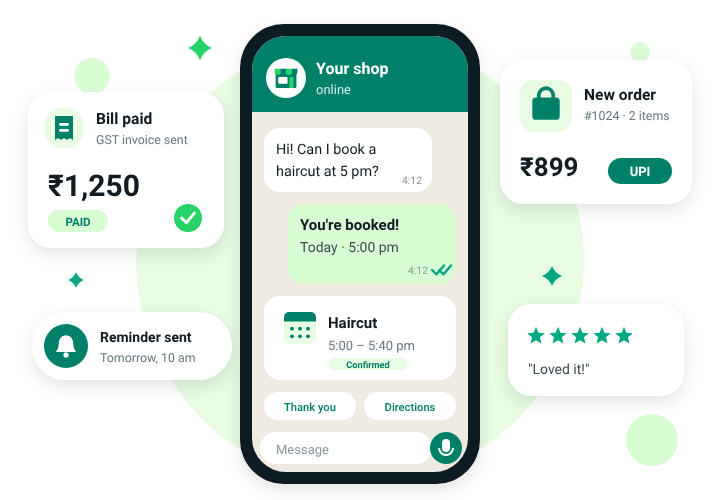
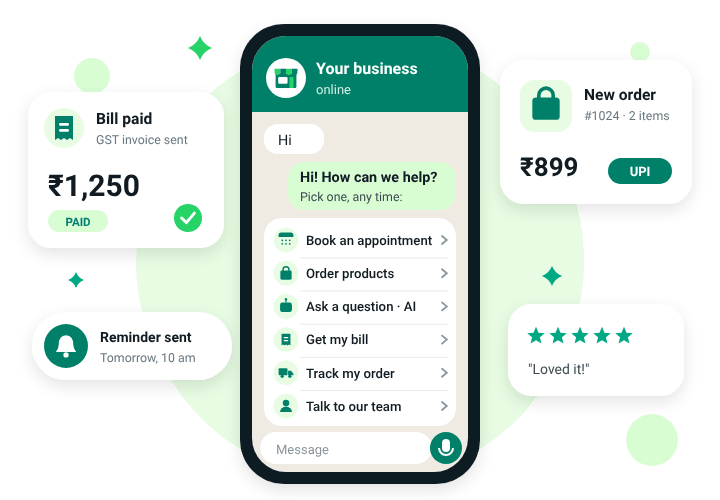
Welcome picture: one chat that offers every service [skip ci]
Owner: show all our services in one picture, in the chat window. The welcome chat is now a generic business whose
AI answers 'Hi' with a WhatsApp list: book an appointment, order products, ask a question (AI), get my bill, track
my order, talk to our team. The cards around it stay (bill paid, new order, reminder, review).

Claude-Session: https://claude.ai/code/session_01CjRiYz4tomoTeVrAzbZoJB

Changed region(s): [[0.3667, 0.24, 0.6417, 0.87], [0.4889, 0.12, 0.5806, 0.15]]

diff --git a/mobile/lib/screens/auth/login_screen.dart b/mobile/lib/screens/auth/login_screen.dart
@@ -202,7 +202,13 @@ class _LoginScreenState extends State<LoginScreen> {
       children: [
         _brandRow(),
         const SizedBox(height: 10),
-        AuthPicture('welcome', aspect: 360 / 250, maxHeight: (height * (height < 700 ? 0.28 : 0.34)).clamp(130.0, 300.0), semantic: 'A WhatsApp chat with a booking, a paid bill, a new order and a review'),
+        // One picture: the chat offers every service (book, order, ask the AI, bill, track, talk to the team)
+        AuthPicture(
+          'welcome',
+          aspect: 360 / 250,
+          maxHeight: (height * (height < 700 ? 0.28 : 0.34)).clamp(130.0, 300.0),
+          semantic: 'A WhatsApp chat offering bookings, orders, AI answers, bills, order tracking and the team',
+        ),
         const SizedBox(height: 14),
         const Text(
           'Your business on WhatsApp, in one app',

diff --git a/mobile/design/art/gen.py b/mobile/design/art/gen.py
@@ -141,21 +141,19 @@ def welcome():
     scr = rect(126, 18, 108, 218, 0, CH)
     scr += rect(126, 18, 108, 38, 0, G)
     scr += circle(143, 39, 10, W) + shop_glyph(136.5, 32.5, 13, body=G, awning=B, window=W)
-    scr += text(158, 37, 'Your shop', 8, 700, W) + text(158, 47, 'online', 6.5, 400, '#CFEDE6')
-    # customer asks
-    scr += rect(132, 64, 84, 32, 8, W) + text(138, 77, 'Hi! Can I book a', 7.2, 400, N) + text(138, 88, 'haircut at 5 pm?', 7.2, 400, N)
-    scr += text(211, 92, '4:12', 5.2, 400, F, 'end')
-    # business answers
-    scr += rect(144, 102, 84, 40, 8, L) + text(150, 115, "You're booked!", 7.5, 700, N) + text(150, 126, 'Today · 5:00 pm', 7, 400, T2)
-    scr += text(214, 137, '4:12', 5.2, 400, F, 'end') + ticks(216, 132)
-    # booking card
-    scr += rect(132, 148, 96, 42, 8, W)
-    scr += calendar(142, 156, 16, top=G, body=L2, dots=G)
-    scr += text(164, 164, 'Haircut', 7.5, 700, N) + text(164, 175, '5:00 – 5:40 pm', 6.5, 400, M)
-    scr += rect(164, 179, 40, 6, 3, L2) + text(184, 184, 'Confirmed', 4.6, 700, G, 'middle')
-    # quick replies
-    scr += rect(132, 196, 46, 14, 7, W) + text(155, 205.5, 'Thank you', 5.6, 500, G, 'middle')
-    scr += rect(182, 196, 46, 14, 7, W) + text(205, 205.5, 'Directions', 5.6, 500, G, 'middle')
+    scr += text(158, 37, 'Your business', 8, 700, W) + text(158, 47, 'online', 6.5, 400, '#CFEDE6')
+    # The customer says hi; the business (its AI) answers with every service it offers, as a WhatsApp list
+    scr += rect(132, 62, 30, 15, 7, W) + text(139, 72.5, 'Hi', 7.2, 400, N)
+    scr += rect(144, 81, 84, 24, 8, L) + text(150, 91, 'Hi! How can we help?', 7.2, 700, N) + text(150, 100.5, 'Pick one, any time:', 6.2, 400, T2)
+    scr += rect(132, 109, 96, 104, 9, W)
+    services = [('cal', 'Book an appointment'), ('bag', 'Order products'), ('robot', 'Ask a question · AI'), ('receipt', 'Get my bill'), ('truck', 'Track my order'), ('person', 'Talk to our team')]
+    for i, (icon, label) in enumerate(services):
+        y = 113 + i * 16.6
+        scr += circle(143, y + 7, 6.2, L2) + glyph(icon, 143, y + 7, 7.4, G)
+        scr += text(153, y + 9.4, label, 6.6, 500, N)
+        scr += f'<path d="M{221} {y + 5} l2.4 2 l-2.4 2" fill="none" stroke="{F}" stroke-width="0.9" stroke-linecap="round"/>'
+        if i < len(services) - 1:
+            scr += rect(150, y + 15.6, 74, 0.6, 0, LN)
     # typing bar
     scr += rect(130, 216, 86, 16, 8, W) + text(138, 227, 'Message', 6.5, 400, F)
     scr += circle(223, 224, 8, G) + rect(221, 219.5, 4, 6.5, 2, W) + f'<path d="M219.5 224 a3.5 3.5 0 0 0 7 0" fill="none" stroke="{W}" stroke-width="1"/>'
@@ -377,6 +375,57 @@ def offline():
     b += circle(120, 84, 4.5, F)
     b += circle(150, 110, 13, W, 'filter="url(#sh2)"') + f'<path d="M145 105 l10 10 M155 105 l-10 10" stroke="#B91C1C" stroke-width="2.4" stroke-linecap="round"/>'
     return w, h, b
+
+
+
+# ───────────────────────── One picture per kind of business (welcome screen) ─────────────────────────
+def glyph(kind, cx, cy, s, c=W):
+    """A small flat icon centred at (cx, cy), about s wide."""
+    u = s / 10
+    if kind == 'cross':
+        return rect(cx - u * 1.3, cy - u * 4, u * 2.6, u * 8, u * 0.6, c) + rect(cx - u * 4, cy - u * 1.3, u * 8, u * 2.6, u * 0.6, c)
+    if kind == 'dumbbell':
+        return rect(cx - u * 4.6, cy - u * 2.6, u * 1.6, u * 5.2, u * 0.5, c) + rect(cx + u * 3, cy - u * 2.6, u * 1.6, u * 5.2, u * 0.5, c) + rect(cx - u * 3.4, cy - u * 0.7, u * 6.8, u * 1.4, u * 0.5, c)
+    if kind == 'bowl':
+        return f'<path d="M{cx - u * 4.5} {cy - u * 0.5} h{u * 9} a{u * 4.5} {u * 4} 0 0 1 {-u * 9} 0 Z" fill="{c}"/>' + rect(cx - u * 3, cy + u * 3.6, u * 6, u * 1.1, u * 0.5, c) + f'<path d="M{cx - u * 1.5} {cy - u * 1.6} q{u * 0.8} {-u * 1.4} 0 {-u * 2.8} M{cx + u * 1} {cy - u * 1.6} q{u * 0.8} {-u * 1.4} 0 {-u * 2.8}" stroke="{c}" stroke-width="{u * 0.8}" fill="none" stroke-linecap="round"/>'
+    if kind == 'shirt':
+        return f'<path d="M{cx - u * 4.5} {cy - u * 3} l{u * 2.5} -{u * 1.6} h{u * 4} l{u * 2.5} {u * 1.6} l-{u * 1.4} {u * 2.4} l-{u * 1.2} -{u * 0.6} v{u * 5.4} h-{u * 4.8} v-{u * 5.4} l-{u * 1.2} {u * 0.6} Z" fill="{c}"/>'
+    if kind == 'basket':
+        return f'<path d="M{cx - u * 4.8} {cy - u * 1} h{u * 9.6} l-{u * 1.2} {u * 5.2} h-{u * 7.2} Z" fill="{c}"/>' + f'<path d="M{cx - u * 3} {cy - u * 1} l{u * 1.8} -{u * 3.4} M{cx + u * 3} {cy - u * 1} l-{u * 1.8} -{u * 3.4}" stroke="{c}" stroke-width="{u * 0.9}" stroke-linecap="round"/>'
+    if kind == 'cap':
+        return f'<path d="M{cx} {cy - u * 4} l{u * 5} {u * 2.4} l-{u * 5} {u * 2.4} l-{u * 5} -{u * 2.4} Z" fill="{c}"/>' + f'<path d="M{cx - u * 3} {cy - u * 0.2} v{u * 2.6} q{u * 3} {u * 1.8} {u * 6} 0 v-{u * 2.6}" fill="{c}"/>'
+    if kind == 'wrench':
+        return f'<path d="M{cx + u * 2.6} {cy - u * 4.2} a{u * 2.4} {u * 2.4} 0 1 0 {u * 1.6} {u * 3.4} l-{u * 5.6} {u * 5.6} a{u * 1} {u * 1} 0 0 1 -{u * 1.6} -{u * 1.6} l{u * 5.6} -{u * 5.6} Z" fill="{c}"/>'
+    if kind == 'house':
+        return f'<path d="M{cx} {cy - u * 4.6} l{u * 5} {u * 4} h-{u * 1.2} v{u * 4.6} h-{u * 7.6} v-{u * 4.6} h-{u * 1.2} Z" fill="{c}"/>'
+    if kind == 'robot':
+        return rect(cx - u * 4, cy - u * 2.6, u * 8, u * 6.4, u * 1.6, c) + circle(cx - u * 1.7, cy + u * 0.4, u * 0.9, G) + circle(cx + u * 1.7, cy + u * 0.4, u * 0.9, G) + rect(cx - u * 0.4, cy - u * 4.6, u * 0.8, u * 2, 0, c) + circle(cx, cy - u * 4.8, u * 0.8, c)
+    if kind == 'shop':
+        return shop_glyph(cx - s * 0.5, cy - s * 0.55, s, body=G, awning=B, window=W)
+    if kind == 'receipt':
+        return f'<path d="M{cx - u * 3} {cy - u * 4} h{u * 6} v{u * 8} l-{u} -{u * 0.7} l-{u} {u * 0.7} l-{u} -{u * 0.7} l-{u} {u * 0.7} l-{u} -{u * 0.7} l-{u} {u * 0.7} Z" fill="{c}"/>' + line(cx - u * 1.6, cy - u * 1.8, u * 3.2, u * 0.9, W if c != W else G) + line(cx - u * 1.6, cy + u * 0.2, u * 3.2, u * 0.9, W if c != W else G)
+    if kind == 'bag':
+        return bag(cx - s / 2, cy - s / 2, s, c, c)
+    if kind == 'truck':
+        return rect(cx - u * 5, cy - u * 3, u * 6, u * 4.6, u * 0.6, c) + f'<path d="M{cx + u * 1.4} {cy - u * 1.4} h{u * 2} l{u * 1.6} {u * 2} v{u * 1} h-{u * 3.6} Z" fill="{c}"/>' + circle(cx - u * 2.6, cy + u * 2.4, u * 1.1, c) + circle(cx + u * 2.6, cy + u * 2.4, u * 1.1, c)
+    if kind == 'bell':
+        return bell(cx, cy, s, c)
+    if kind == 'chat':
+        return f'<path d="M{cx - u * 4.5} {cy - u * 3.5} h{u * 9} v{u * 6} h-{u * 5} l-{u * 2.5} {u * 2} v-{u * 2} h-{u * 1.5} Z" fill="{c}"/>'
+    if kind == 'book':
+        return f'<path d="M{cx - u * 4.6} {cy - u * 3.6} q{u * 2.4} -{u * 0.8} {u * 4.4} {u * 0.4} v{u * 7.2} q-{u * 2} -{u * 1.2} -{u * 4.4} -{u * 0.4} Z M{cx + u * 4.6} {cy - u * 3.6} q-{u * 2.4} -{u * 0.8} -{u * 4.4} {u * 0.4} v{u * 7.2} q{u * 2} -{u * 1.2} {u * 4.4} -{u * 0.4} Z" fill="{c}"/>'
+    if kind == 'pill':
+        return f'<g transform="rotate(-35 {cx} {cy})">' + rect(cx - u * 4.4, cy - u * 1.8, u * 8.8, u * 3.6, u * 1.8, c) + rect(cx, cy - u * 1.8, u * 4.4, u * 3.6, u * 1.8, B) + rect(cx, cy - u * 1.8, u * 1.2, u * 3.6, 0, B) + '</g>'
+    if kind == 'check':
+        return check(cx - u * 3.4, cy - u * 3.4, u * 6.8, c, u * 1.4)
+    if kind == 'chart':
+        return rect(cx - u * 4, cy, u * 2, u * 3.6, u * 0.4, c) + rect(cx - u * 1, cy - u * 2, u * 2, u * 5.6, u * 0.4, c) + rect(cx + u * 2, cy - u * 4, u * 2, u * 7.6, u * 0.4, c)
+    if kind == 'person':
+        return circle(cx, cy - u * 2, u * 2.2, c) + f'<path d="M{cx - u * 4} {cy + u * 4} a{u * 4} {u * 3.6} 0 0 1 {u * 8} 0 Z" fill="{c}"/>'
+    if kind == 'translate':
+        return text(cx - u * 2.4, cy + u * 0.6, 'A', s * 0.55, 700, c, 'middle') + text(cx + u * 2.2, cy + u * 3.4, 'अ', s * 0.5, 700, c, 'middle')
+    return calendar(cx - s / 2, cy - s / 2, s, top=G, body=L2, dots=G)
+
 
 
 ART = {'welcome': welcome, 'desk': desk, 'shop': shop, 'nowa': nowa, 'team': team, 'signup': signup, 'code': code, 'offline': offline}
